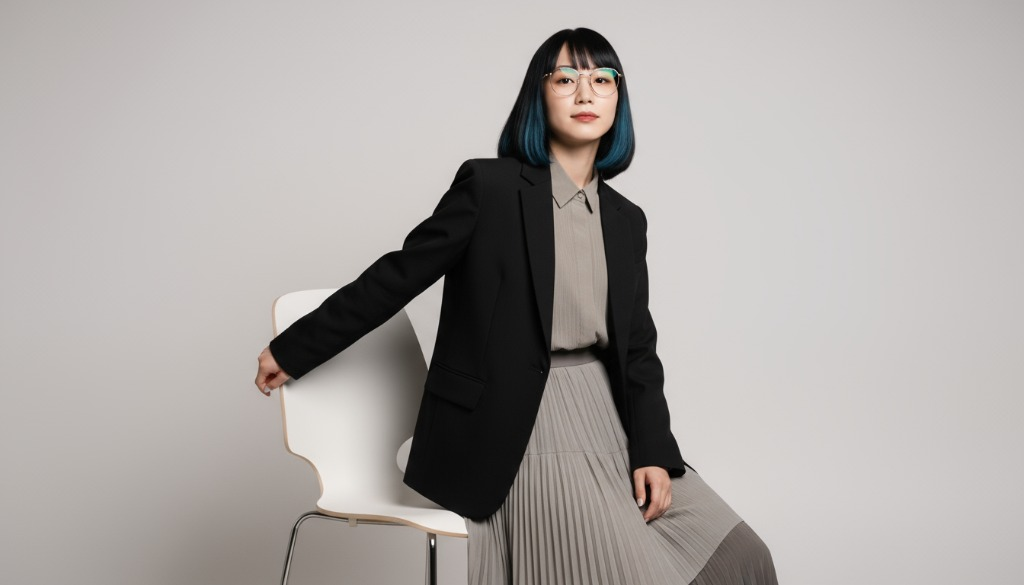
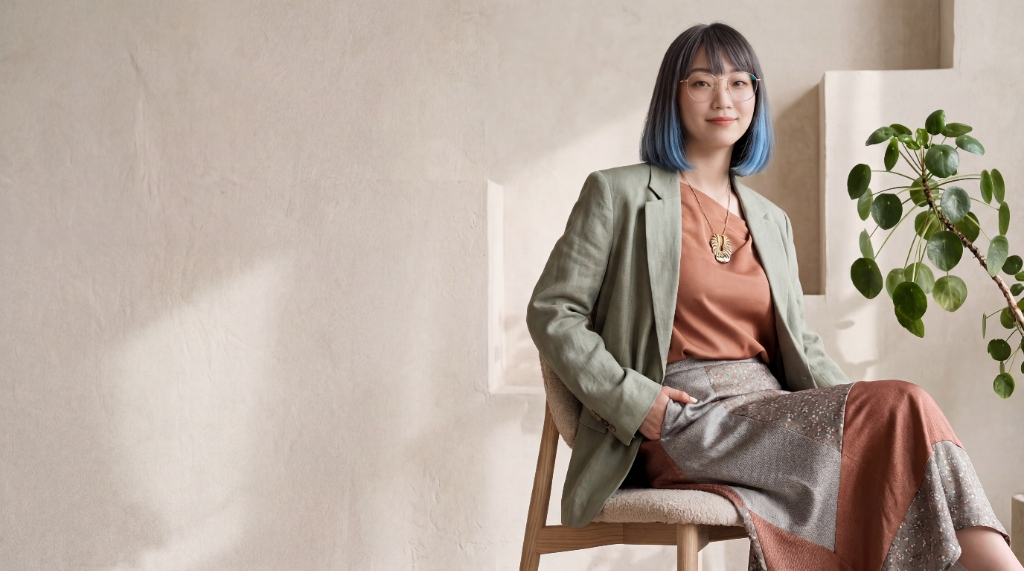
Rebuild: Correct filenames, new Spring FES link, layout fix

diff --git a/index.html b/index.html
@@ -9,8 +9,8 @@
     <meta name="keywords" content="ローファイ探偵, Lo-Fi Detective, Suno AI, AI音楽, AI Music, ミステリー, サイバーパンク, Karasui">
     
     <!-- Favicon & Mobile Icons -->
-    <link rel="icon" type="image/png" href="https://karasui1014.github.io/lofi-detective-website/assets/favicon.png">
-    <link rel="apple-touch-icon" href="https://karasui1014.github.io/lofi-detective-website/assets/favicon.png">
+    <link rel="icon" type="image/png" href="assets/favicon.png">
+    <link rel="apple-touch-icon" href="assets/favicon.png">
     <meta name="apple-mobile-web-app-title" content="Lo-Fi探偵">
     <meta name="apple-mobile-web-app-capable" content="yes">
 
@@ -75,7 +75,7 @@
             width: 100%;
             height: 100%;
             z-index: -2;
-            background-image: url('https://karasui1014.github.io/lofi-detective-website/assets/bg_main.jpg');
+            background-image: url('assets/bg_main.jpg');
             background-size: cover;
             background-position: center;
             opacity: 0.25;
@@ -1088,7 +1088,7 @@
                     <p class="subtitle">Melody is the Key to the Truth.</p>
                 </div>
                 <div class="hero-image-container">
-                    <img src="https://karasui1014.github.io/lofi-detective-website/assets/hero_karasui.jpg"
+                    <img src="assets/hero_karasui.jpg"
                          alt="Lo-Fi Detective Karasui" class="hero-image">
                 </div>
             </div>
@@ -1108,11 +1108,11 @@
                 <h3 style="font-family: var(--font-display); color: var(--secondary-accent); margin-bottom: 0.5rem; font-size: 1.1rem; letter-spacing: 0.1em;">SCHEDULE</h3>
                 <div class="schedule-grid reveal-stagger">
                     <!-- Left: AI Spring FES YouTube -->
-                    <div class="schedule-item glass-panel">
+                    <div class="schedule-item glass-panel" style="padding: 1rem; display: flex; flex-direction: column;">
                         <span class="schedule-label">MISSION ENTRY</span>
                         <h4 class="schedule-title">AI Spring FES 2026</h4>
-                        <a href="https://www.youtube.com/watch?v=ODKMOjHPpQc" target="_blank" class="video-thumb-link">
-                            <img src="https://img.youtube.com/vi/ODKMOjHPpQc/maxresdefault.jpg" alt="AI Spring FES 2026" style="aspect-ratio: 16 / 9; object-fit: cover; object-position: center;">
+                        <a href="https://www.youtube.com/watch?v=4PJJGya37Wo" target="_blank" class="video-thumb-link" style="flex: 1; display: flex; align-items: center;">
+                            <img src="https://img.youtube.com/vi/4PJJGya37Wo/maxresdefault.jpg" alt="AI Spring FES 2026" style="width: 100%; object-fit: cover; object-position: center;">
                             <div class="video-play-btn"></div>
                         </a>
                         <div class="schedule-badge">2026.3.29(Sun) 出演決定</div>
@@ -1124,15 +1124,15 @@
                         <span class="schedule-label">OFFICIAL GOODS</span>
                         <h4 class="schedule-title">公式グッズストア</h4>
                         <div style="flex: 1; width: 100%; border-radius: 8px; overflow: hidden; background: #000; display: flex; align-items: center; justify-content: center;">
-                            <img src="https://karasui1014.github.io/lofi-detective-website/assets/spring_fes_goods.png"
-                                 alt="AI Spring FES 2026 Official Goods" style="max-width: 100%; max-height: 100%; object-fit: contain; display: block;">
+                            <img src="assets/spring_fes_goods.png"
+                                 alt="AI Spring FES 2026 Official Goods" style="width: 100%; height: auto; object-fit: contain; display: block;">
                         </div>
                     </a>
 
                     <!-- Bottom: Event Site Banner -->
                     <a href="https://ryomaeno84.github.io/AI-Event-Collection/AIspringFES_tmp/index.html" target="_blank"
                        class="schedule-item glass-panel event-banner" style="grid-column: 1 / -1; padding: 0; overflow: hidden; position: relative; min-height: 260px;">
-                        <img src="https://karasui1014.github.io/lofi-detective-website/assets/spring_fes_banner.png" 
+                        <img src="assets/spring_fes_banner.png" 
                              alt="AI Spring FES 2026 Event Site" style="width: 100%; height: 100%; object-fit: cover; position: absolute; top:0; left:0; filter: brightness(0.6);">
                         <div style="position: relative; z-index: 2; padding: 2rem; text-align: center; width: 100%;">
                             <span class="schedule-label" style="color: #fff; text-shadow: 0 0 10px rgba(0,0,0,0.8);">OFFICIAL EVENT SITE</span>
@@ -1178,7 +1178,7 @@
                     </div>
                 </div>
                 <div class="story-image">
-                    <img src="https://karasui1014.github.io/lofi-detective-website/assets/case_file.jpg"
+                    <img src="assets/case_file.jpg"
                          alt="Lo-Fi Detective Case File">
                 </div>
             </div>
@@ -1228,7 +1228,7 @@
                             <p>事件の記録（MV）</p>
                             <div class="mv-image-container">
                                 <a href="https://youtu.be/ZojKm2mWHRM?si=3AWyd3vbe-0-no8V" target="_blank" style="display: block;">
-                                    <img src="https://karasui1014.github.io/lofi-detective-website/assets/youtube_mv.jpg"
+                                    <img src="assets/youtube_mv.jpg"
                                          alt="Raindrops of Deception MV">
                                 </a>
                             </div>
@@ -1243,7 +1243,7 @@
                             <p>制作楽曲一覧</p>
                             <div class="mv-image-container">
                                 <a href="https://suno.com/@karasuiai" target="_blank" style="display: block;">
-                                    <img src="https://karasui1014.github.io/lofi-detective-website/assets/suno_profile.jpg"
+                                    <img src="assets/suno_profile.jpg"
                                          alt="Suno Profile">
                                 </a>
                             </div>
@@ -1267,7 +1267,7 @@
                 <p class="award-subtitle">Excellent Award Winner / 優秀賞受賞作品</p>
                 <div class="award-video-wrapper">
                     <video controls>
-                        <source src="https://karasui1014.github.io/lofi-detective-website/assets/award_video.mov" type="video/mp4">
+                        <source src="assets/award_video.mov" type="video/mp4">
                         Your browser does not support the video tag.
                     </video>
                 </div>
@@ -1283,7 +1283,7 @@
             <div class="social-links">
                 <a href="https://x.com/karasuiAi" target="_blank" class="social-card">
                     <div class="social-card-image-wrap">
-                        <img src="https://karasui1014.github.io/lofi-detective-website/assets/contact_x.png" alt="X (Twitter)">
+                        <img src="assets/contact_x.png" alt="X (Twitter)">
                         <div class="social-card-gradient"></div>
                     </div>
                     <div class="social-card-info">
@@ -1293,7 +1293,7 @@
                 </a>
                 <a href="https://www.tiktok.com/@karasui.music?_r=1&_t=ZS-91b7S8z9fYj" target="_blank" class="social-card">
                     <div class="social-card-image-wrap">
-                        <img src="https://karasui1014.github.io/lofi-detective-website/assets/contact_tiktok.png" alt="TikTok">
+                        <img src="assets/contact_tiktok.png" alt="TikTok">
                         <div class="social-card-gradient"></div>
                     </div>
                     <div class="social-card-info">
